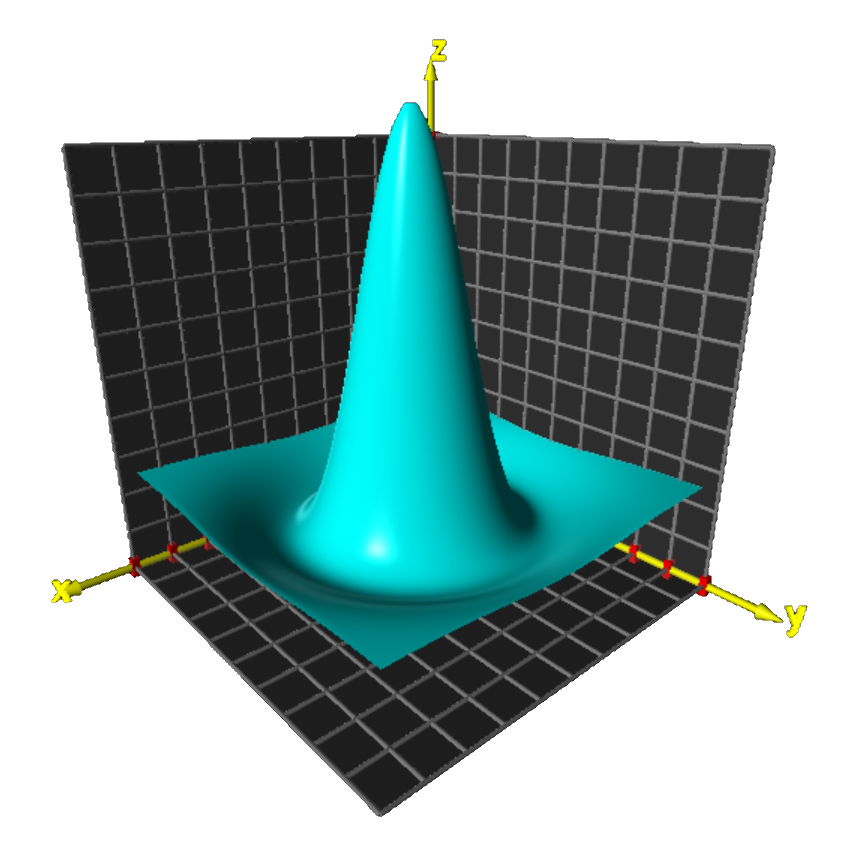
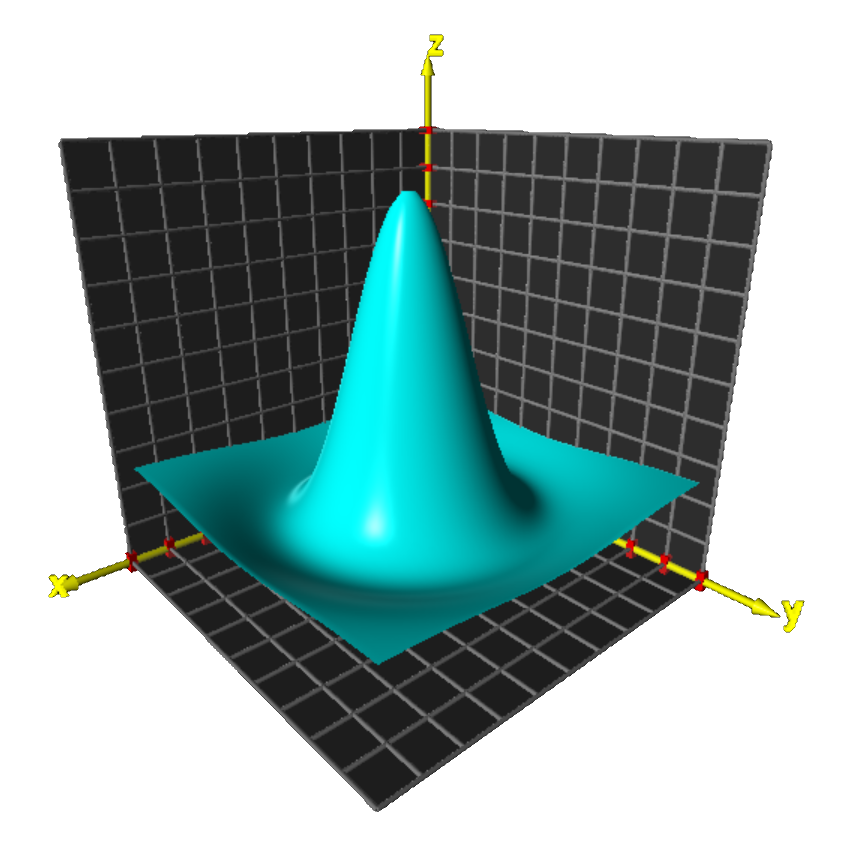
Updated picture

diff --git a/src/glowscript/mathematics/ricker_wavelet.py b/src/glowscript/mathematics/ricker_wavelet.py
@@ -272,29 +272,28 @@ class plot3D:
 
 
 def toggle_tick_marks(event):
-    axis.tick_marks_visibility_is(event.checked)
-
+    plot
 
 def toggle_xz_mesh(event):
-    axis.xz_mesh_visibility_is(event.checked)
+    plot.xz_mesh_visibility_is(event.checked)
 
 
 def toggle_xy_mesh(event):
-    axis.xy_mesh_visibility_is(event.checked)
+    plot.xy_mesh_visibility_is(event.checked)
 
 
 def toggle_yz_mesh(event):
-    axis.yz_mesh_visibility_is(event.checked)
+    plot.yz_mesh_visibility_is(event.checked)
 
 
 def toggle_axis(event):
-    axis.axis_visibility_is(event.checked)
+    plot.axis_visibility_is(event.checked)
 
 
 def ricker_wave():
     xx, yy = np.meshgrid(np.linspace(-2, 2, 50), np.linspace(-2, 2, 50))
     zz = np.linspace(-2, 2, 50)
-    sigma = .65
+    sigma = .7
 
     def f(x, y, t):
         return -1 + (1 + sin(4 * t)) / (pi * sigma ** 4) * (1 - 0.5 * ((x * x + y * y)) / (sigma * sigma)) * exp(

diff --git a/src/glowscript/mathematics/sine_cosine_wave.py b/src/glowscript/mathematics/sine_cosine_wave.py
@@ -270,23 +270,23 @@ class plot3D:
 
 
 def toggle_tick_marks(event):
-    axis.tick_marks_visibility_is(event.checked)
+    plot.tick_marks_visibility_is(event.checked)
 
 
 def toggle_xz_mesh(event):
-    axis.xz_mesh_visibility_is(event.checked)
+    plot.xz_mesh_visibility_is(event.checked)
 
 
 def toggle_xy_mesh(event):
-    axis.xy_mesh_visibility_is(event.checked)
+    plot.xy_mesh_visibility_is(event.checked)
 
 
 def toggle_yz_mesh(event):
-    axis.yz_mesh_visibility_is(event.checked)
+    plot.yz_mesh_visibility_is(event.checked)
 
 
 def toggle_axis(event):
-    axis.axis_visibility_is(event.checked)
+    plot.axis_visibility_is(event.checked)
 
 
 def ricker_wave():
